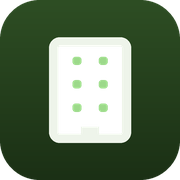
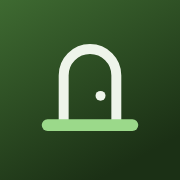
Заставка с аркой «Порог», название и знак на входе и на Главной, новые иконки
Claude-Session: https://claude.ai/code/session_01Kq7sDQS3NiDdE2f5ZS1JYB

diff --git a/sw.js b/sw.js
@@ -1,7 +1,7 @@
 /* Офлайн-режим: приложение сохраняется на телефоне.
    Страница — «сначала сеть»: при интернете приходит свежая версия, без него открывается сохранённая.
    Иконки, шрифты и прочее — «сначала сохранённое», в фоне обновляется. */
-const V='arenda-v4';
+const V='arenda-v5';
 const CORE=['./','./index.html','./manifest.webmanifest','./icon-192.png','./icon-512.png','./icon-maskable.png','./apple-touch-icon.png'];
 self.addEventListener('install',e=>{e.waitUntil(caches.open(V).then(c=>c.addAll(CORE)).then(()=>self.skipWaiting()))});
 self.addEventListener('activate',e=>{e.waitUntil(caches.keys().then(ks=>Promise.all(ks.filter(k=>k!==V).map(k=>caches.delete(k)))).then(()=>self.clients.claim()))});

diff --git a/CLAUDE.md b/CLAUDE.md
@@ -49,6 +49,7 @@
 32. **Текст объявления** (кнопка «Объявление» в шапке карточки): собирается из карточки, описи и договора, редактируется и копируется для Авито или Циан.
 33. **Жесты:** шторку можно смахнуть вниз (за полоску сверху или с верха содержимого); свайп влево-вправо листает вкладки карточки, месяцы календаря броней, периоды в Финансах (на блоке периода и зелёном блоке) и разделы нижнего меню. Системная кнопка и жест «Назад» (Android, свайп от края в Safari) закрывают шторку и поднимают на экран выше: пока открыта шторка или вложенный экран, в истории браузера лежит одна запись (`syncHist`). В установленном на iPhone приложении «Назад» — свайп от левого края.
 34. **Подгонка под телефон:** шрифт полей ввода не меньше 16 px — иначе iPhone увеличивает страницу при вводе и не возвращает масштаб. Подписи в переключателях не переносятся. У каждого переключателя своя «память» положения пилюли (ключ — экран + подпись переключателя).
+35. **Заставка и знак «Порог»** (рабочее название в прототипе, окончательно не утверждено): при запуске ~1,2 с на зелёном фоне рисуется арка, под ней выезжает салатовая линия-порог, появляется ручка двери и надпись «Порог / учёт аренды», затем заставка тает и экран входа появляется со своей анимацией (`#splash`; при `prefers-reduced-motion` не показывается). Знак `logo()` — на экране входа и в шапке Главной; иконки приложения (`icon-*.png`, `apple-touch-icon.png`) и `manifest.webmanifest` — «Порог». В английском — Porog / rental manager.
 
 ## Дизайн-система прототипа
 
@@ -156,7 +157,7 @@ Obj = {
 
 Подробно: https://claude.ai/artifact/NSPNyramyoqk6pimW9Sj1e (копия — `docs/nazvanie-i-ceny.html`). Решение не принято.
 
-- **Название:** предложено «Порог» (в магазине «Порог — учёт аренды», латиницей porog), запасное — «Домовод». Отпали: «Ключник» (путается с «Ключ»/Kluch и «Дом Ключ»), «Сдаю» (близко к «Сдавайся» от Суточно.ру), «Рента» (занято), «Арендал» (норвежский город забивает поиск). Товарные знаки (ФИПС, классы 9, 36, 42) и домены не проверены.
+- **Название:** предложено «Порог» (уже стоит в прототипе: заставка, вход, шапка Главной, иконки) (в магазине «Порог — учёт аренды», латиницей porog), запасное — «Домовод». Отпали: «Ключник» (путается с «Ключ»/Kluch и «Дом Ключ»), «Сдаю» (близко к «Сдавайся» от Суточно.ру), «Рента» (занято), «Арендал» (норвежский город забивает поиск). Товарные знаки (ФИПС, классы 9, 36, 42) и домены не проверены.
 - **Логотип:** три эскиза — «арка и порог» (предложен), «П и приоткрытая дверь», «крыша над порогом»; зелёный фон приложения и салатовая линия-порог.
 - **Цены:** арендатор — всегда бесплатно; «Старт» — 1 объект бесплатно; «Частник» — 199 ₽/мес или 1 990 ₽/год до 5 объектов; «Агент» — 490 ₽ до 10, 990 ₽ до 30, 1 990 ₽ без лимита; год = 10 месяцев цены; пробный период 30 дней. Процент с аренды не берём.
 - **Новые конкуренты (найдены 8 ноября):** «Простая Аренда» (RuStore), «Рента [+]», RentiFly, «Ключ» (Kluch), «Домоуправление», «Сдавайся» (Суточно.ру) — цены в карточках не указаны.
